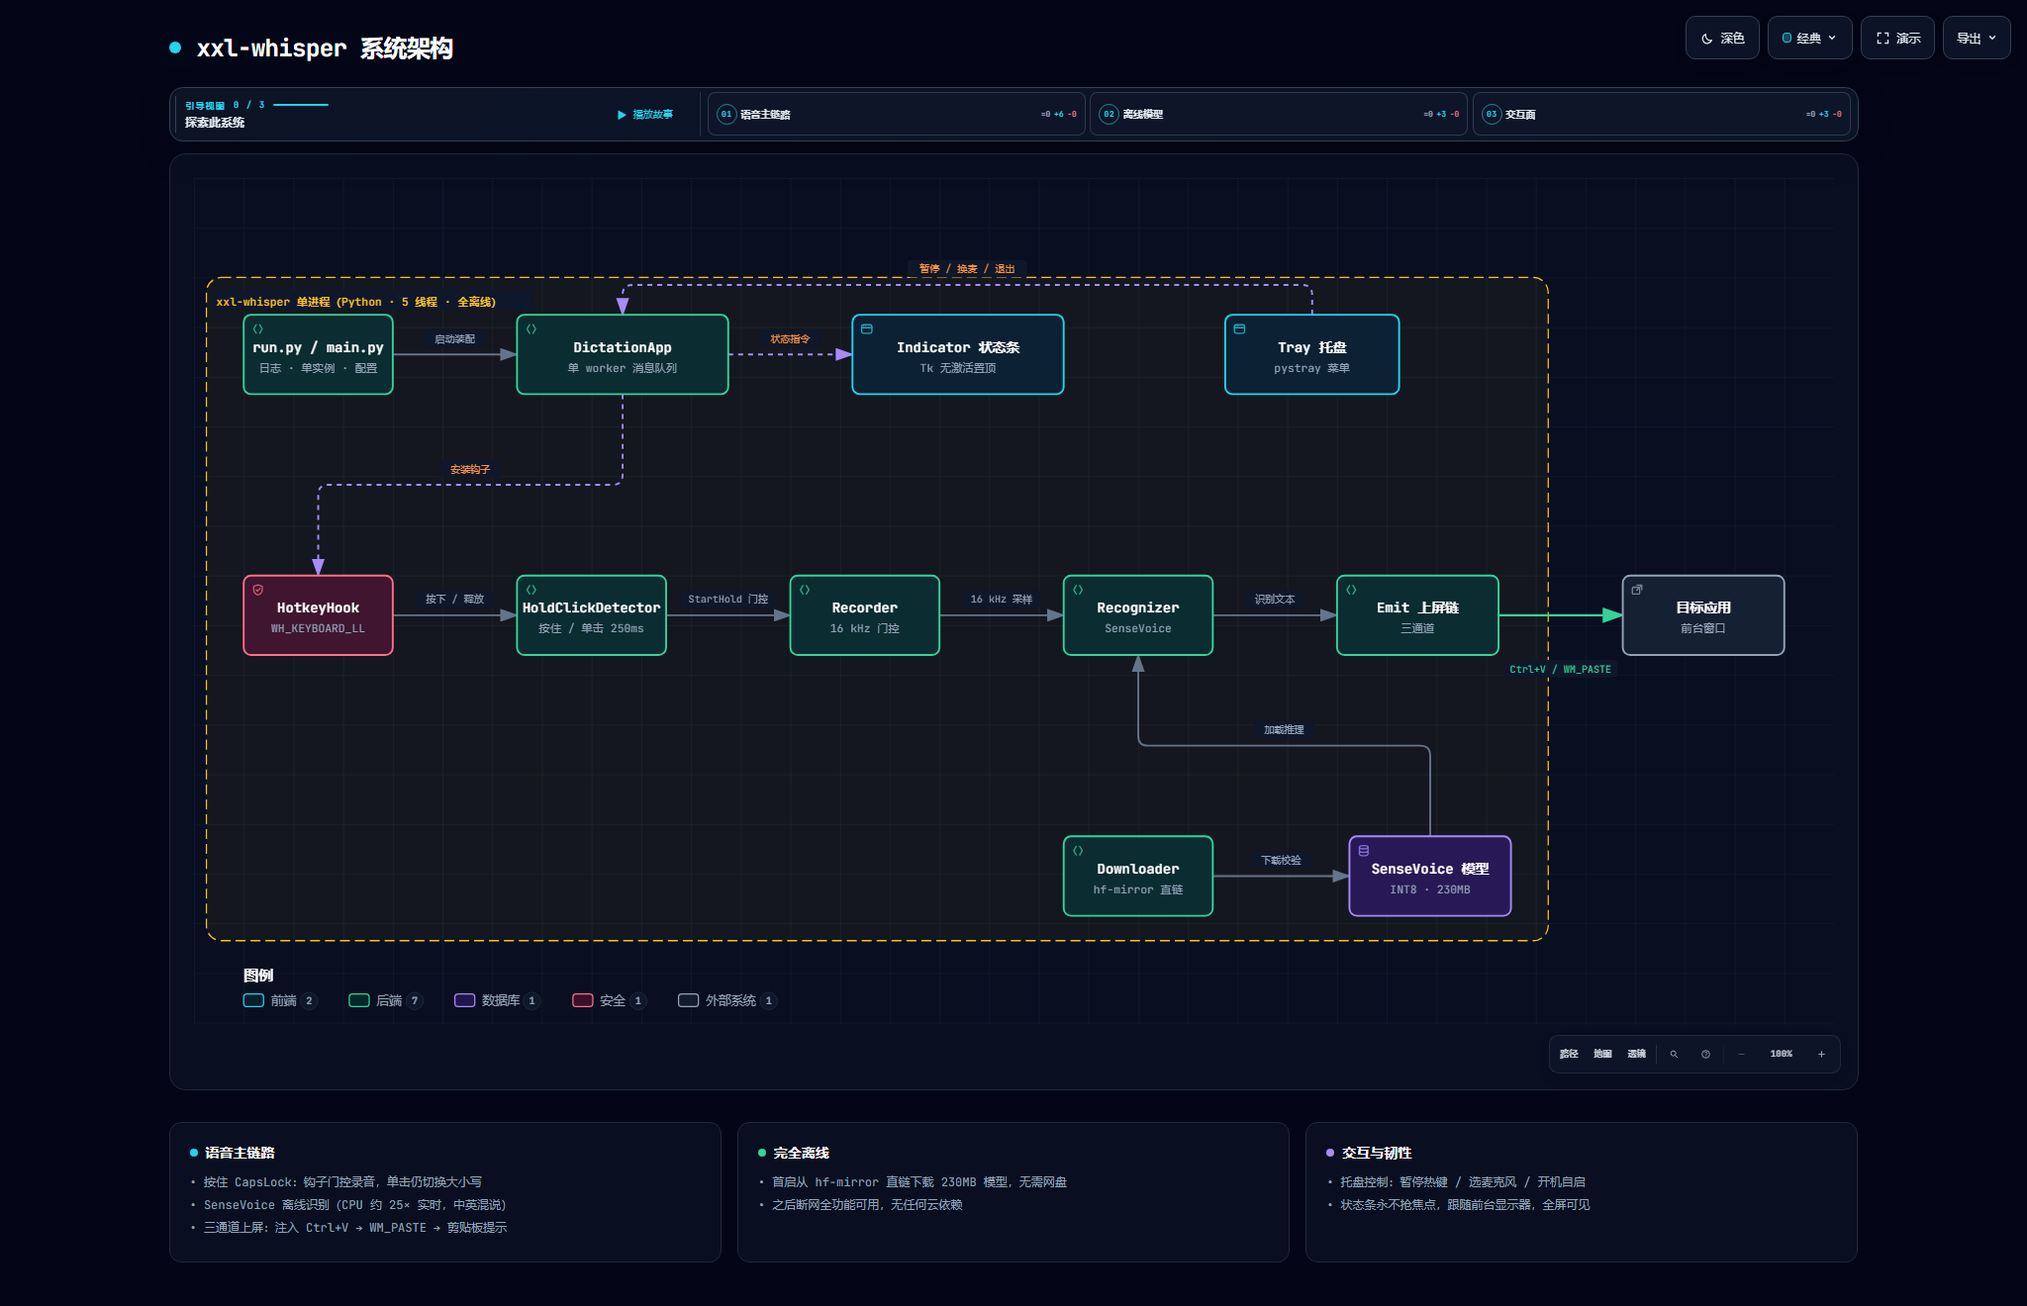
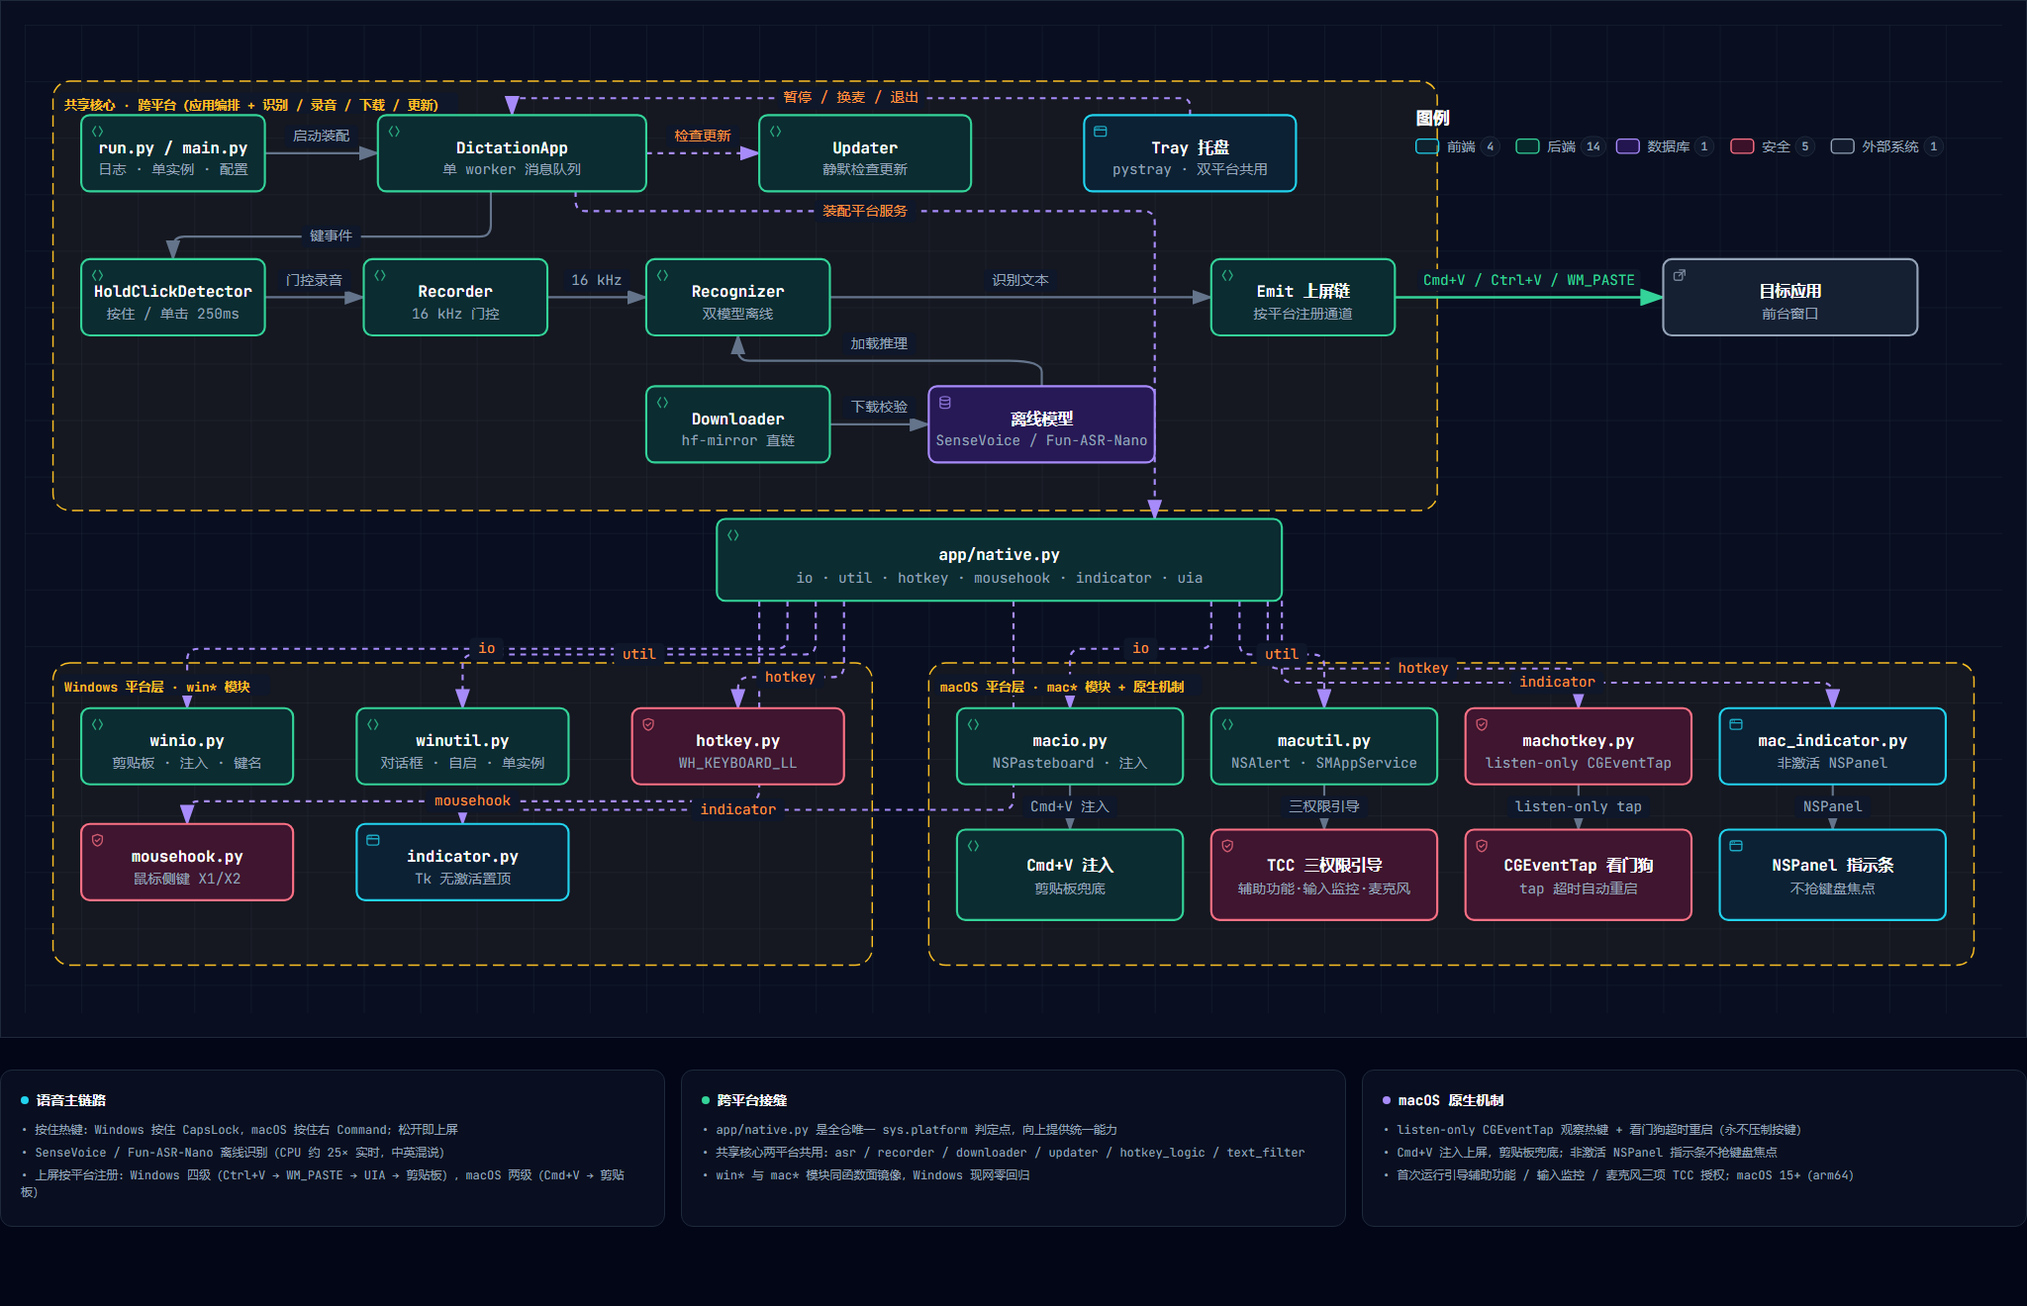
docs: add Fun-ASR-Nano to the architecture; refresh images and links
- architecture.json/.en.json + architecture.html/.en.html: the model node
  becomes "离线模型 / Offline models" with sublabel "SenseVoice / Fun-ASR-Nano";
  the Recognizer sublabel becomes "双模型离线 / dual-model, offline"; the cyan
  card mentions both models; widen the model node (130 to 160) so the sublabel fits
- README.en.md: architecture links now target architecture.en.html /
  architecture.en.json (they pointed at the Chinese page)
- replace the stale architecture.visual-check.* exports (single-platform, from
  the original commit) with fresh light/dark captures of the current diagram
- regenerate the README architecture images (docs/architecture.png / .en.png)

diff --git a/docs/architecture.html b/docs/architecture.html
@@ -5042,7 +5042,7 @@
         <path data-edge-from="recognizer" data-edge-to="emit" data-edge-label="识别文本" data-edge-key="4" data-edge-id="asr-out" data-composition-points="570,193;840,193" d="M 570 193 L 840 193" class="a-default" stroke-width="1.5" marker-end="url(#arrowhead)"/>
         <path data-edge-from="emit" data-edge-to="target" data-edge-label="Cmd+V / Ctrl+V / WM_PASTE" data-edge-key="6" data-edge-id="deliver" data-composition-points="970,193;1160,193" d="M 970 193 L 1160 193" class="a-emphasis" stroke-width="1.8" marker-end="url(#arrowhead-emphasis)"/>
         <path data-edge-from="downloader" data-edge-to="model" data-edge-label="下载校验" data-edge-key="7" data-edge-id="fetch" data-composition-points="570,283;640,283" d="M 570 283 L 640 283" class="a-default" stroke-width="1.5" marker-end="url(#arrowhead)"/>
-        <path data-edge-from="model" data-edge-to="recognizer" data-edge-label="加载推理" data-edge-key="8" data-edge-id="load-model" data-composition-points="705,256;705,238;505,238;505,220" d="M 705 256 L 705.0 246.0 Q 705 238 697.0 238.0 L 513.0 238.0 Q 505 238 505.0 230.0 L 505 220" class="a-default" stroke-width="1.5" marker-end="url(#arrowhead)"/>
+        <path data-edge-from="model" data-edge-to="recognizer" data-edge-label="加载推理" data-edge-key="8" data-edge-id="load-model" data-composition-points="720,256;720,238;505,238;505,220" d="M 720 256 L 720.0 246.0 Q 720 238 697.0 238.0 L 513.0 238.0 Q 505 238 505.0 230.0 L 505 220" class="a-default" stroke-width="1.5" marker-end="url(#arrowhead)"/>
         <path data-edge-from="orchestrator" data-edge-to="updater" data-edge-label="检查更新" data-edge-key="9" data-edge-id="update-check" data-composition-points="440,91;520,91" d="M 440 91 L 520 91" class="a-dashed" stroke-width="1.5" marker-end="url(#arrowhead-dashed)"/>
         <path data-edge-from="tray" data-edge-to="orchestrator" data-edge-label="暂停 / 换麦 / 退出" data-edge-key="10" data-edge-id="tray-cmd" data-composition-points="825,64;825,52;345,52;345,64" d="M 825 64 L 825.0 58.0 Q 825 52 819.0 52.0 L 351.0 52.0 Q 345 52 345.0 58.0 L 345 64" class="a-dashed" stroke-width="1.5" marker-end="url(#arrowhead-dashed)"/>
         <path data-edge-from="orchestrator" data-edge-to="native" data-edge-label="装配平台服务" data-edge-key="11" data-edge-id="native-assembly" data-composition-points="390,118;390,132;800,132;800,350" d="M 390 118 L 390.0 125.0 Q 390 132 397.0 132.0 L 792.0 132.0 Q 800 132 800.0 140.0 L 800 350" class="a-dashed" stroke-width="1.5" marker-end="url(#arrowhead-dashed)"/>
@@ -5122,15 +5122,15 @@
           <text data-node-label="" data-detail-anchor="" x="305" y="193" class="t-primary" font-size="11" font-weight="600" text-anchor="middle">Recorder</text>
           <text data-detail="context" x="305" y="208" class="t-muted" font-size="10" text-anchor="middle">16 kHz 门控</text>
         </g>
-        <g id="node-recognizer" data-node-id="recognizer" data-node-label="Recognizer" tabindex="0" role="button" aria-label="聚焦Recognizer，SenseVoice 离线, 共享核心 · 跨平台（应用编排 + 识别 / 录音 / 下载 / 更新）" aria-pressed="false" data-node-kind="backend" data-node-sublabel="SenseVoice 离线" data-node-context="共享核心 · 跨平台（应用编排 + 识别 / 录音 / 下载 / 更新）">
-          <title>Recognizer · SenseVoice 离线 · 共享核心 · 跨平台（应用编排 + 识别 / 录音 / 下载 / 更新）</title>
+        <g id="node-recognizer" data-node-id="recognizer" data-node-label="Recognizer" tabindex="0" role="button" aria-label="聚焦Recognizer，双模型离线, 共享核心 · 跨平台（应用编排 + 识别 / 录音 / 下载 / 更新）" aria-pressed="false" data-node-kind="backend" data-node-sublabel="双模型离线" data-node-context="共享核心 · 跨平台（应用编排 + 识别 / 录音 / 下载 / 更新）">
+          <title>Recognizer · 双模型离线 · 共享核心 · 跨平台（应用编排 + 识别 / 录音 / 下载 / 更新）</title>
           <rect x="440" y="166" width="130" height="54" rx="6" class="c-mask"/>
           <rect x="440" y="166" width="130" height="54" rx="6" class="c-backend" stroke-width="1.5"/>
           <g aria-hidden="true" data-semantic-sigil="backend" class="semantic-sigil s-backend" transform="translate(446 172) scale(0.6875)">
             <path d="M6 3 3 8l3 5M10 3l3 5-3 5"/>
           </g>
           <text data-node-label="" data-detail-anchor="" x="505" y="193" class="t-primary" font-size="11" font-weight="600" text-anchor="middle">Recognizer</text>
-          <text data-detail="context" x="505" y="208" class="t-muted" font-size="10" text-anchor="middle">SenseVoice 离线</text>
+          <text data-detail="context" x="505" y="208" class="t-muted" font-size="10" text-anchor="middle">双模型离线</text>
         </g>
         <g id="node-emit" data-node-id="emit" data-node-label="Emit 上屏链" tabindex="0" role="button" aria-label="聚焦Emit 上屏链，按平台注册通道, 共享核心 · 跨平台（应用编排 + 识别 / 录音 / 下载 / 更新）" aria-pressed="false" data-node-kind="backend" data-node-sublabel="按平台注册通道" data-node-context="共享核心 · 跨平台（应用编排 + 识别 / 录音 / 下载 / 更新）">
           <title>Emit 上屏链 · 按平台注册通道 · 共享核心 · 跨平台（应用编排 + 识别 / 录音 / 下载 / 更新）</title>
@@ -5152,15 +5152,15 @@
           <text data-node-label="" data-detail-anchor="" x="505" y="283" class="t-primary" font-size="11" font-weight="600" text-anchor="middle">Downloader</text>
           <text data-detail="context" x="505" y="298" class="t-muted" font-size="10" text-anchor="middle">hf-mirror 直链</text>
         </g>
-        <g id="node-model" data-node-id="model" data-node-label="SenseVoice 模型" tabindex="0" role="button" aria-label="聚焦SenseVoice 模型，INT8 · 230MB, 共享核心 · 跨平台（应用编排 + 识别 / 录音 / 下载 / 更新）" aria-pressed="false" data-node-kind="database" data-node-sublabel="INT8 · 230MB" data-node-context="共享核心 · 跨平台（应用编排 + 识别 / 录音 / 下载 / 更新）">
-          <title>SenseVoice 模型 · INT8 · 230MB · 共享核心 · 跨平台（应用编排 + 识别 / 录音 / 下载 / 更新）</title>
-          <rect x="640" y="256" width="130" height="54" rx="6" class="c-mask"/>
-          <rect x="640" y="256" width="130" height="54" rx="6" class="c-database" stroke-width="1.5"/>
+        <g id="node-model" data-node-id="model" data-node-label="离线模型" tabindex="0" role="button" aria-label="聚焦离线模型，SenseVoice / Fun-ASR-Nano, 共享核心 · 跨平台（应用编排 + 识别 / 录音 / 下载 / 更新）" aria-pressed="false" data-node-kind="database" data-node-sublabel="SenseVoice / Fun-ASR-Nano" data-node-context="共享核心 · 跨平台（应用编排 + 识别 / 录音 / 下载 / 更新）">
+          <title>离线模型 · SenseVoice / Fun-ASR-Nano · 共享核心 · 跨平台（应用编排 + 识别 / 录音 / 下载 / 更新）</title>
+          <rect x="640" y="256" width="160" height="54" rx="6" class="c-mask"/>
+          <rect x="640" y="256" width="160" height="54" rx="6" class="c-database" stroke-width="1.5"/>
           <g aria-hidden="true" data-semantic-sigil="database" class="semantic-sigil s-database" transform="translate(646 262) scale(0.6875)">
             <ellipse cx="8" cy="4" rx="5" ry="2"/><path d="M3 4v8c0 1.1 2.2 2 5 2s5-.9 5-2V4M3 8c0 1.1 2.2 2 5 2s5-.9 5-2"/>
           </g>
-          <text data-node-label="" data-detail-anchor="" x="705" y="283" class="t-primary" font-size="11" font-weight="600" text-anchor="middle">SenseVoice 模型</text>
-          <text data-detail="context" x="705" y="298" class="t-muted" font-size="10" text-anchor="middle">INT8 · 230MB</text>
+          <text data-node-label="" data-detail-anchor="" x="720" y="283" class="t-primary" font-size="11" font-weight="600" text-anchor="middle">离线模型</text>
+          <text data-detail="context" x="720" y="298" class="t-muted" font-size="10" text-anchor="middle">SenseVoice / Fun-ASR-Nano</text>
         </g>
         <g id="node-native" data-node-id="native" data-node-label="app/native.py" tabindex="0" role="button" aria-label="聚焦app/native.py，io · util · hotkey · mousehook · indicator · uia, 架构组件" aria-pressed="false" data-node-kind="backend" data-node-sublabel="io · util · hotkey · mousehook · indicator · uia" data-node-tag="全仓唯一 sys.platform 点" data-node-context="架构组件">
           <title>app/native.py · io · util · hotkey · mousehook · indicator · uia · 架构组件 · 全仓唯一 sys.platform 点</title>
@@ -5643,7 +5643,7 @@
         </div>
         <ul>
           <li>&bull; 按住热键：Windows 按住 CapsLock，macOS 按住右 Command；松开即上屏</li>
-          <li>&bull; SenseVoice 离线识别（CPU 约 25× 实时，中英混说）</li>
+          <li>&bull; SenseVoice / Fun-ASR-Nano 离线识别（CPU 约 25× 实时，中英混说）</li>
           <li>&bull; 上屏按平台注册：Windows 四级（Ctrl+V → WM_PASTE → UIA → 剪贴板），macOS 两级（Cmd+V → 剪贴板）</li>
         </ul>
       </div>

diff --git a/docs/architecture.en.html b/docs/architecture.en.html
@@ -5133,15 +5133,15 @@
         <text data-detail="context" x="305" y="207" class="t-muted" font-size="9" text-anchor="middle">16 kHz gated</text>
         </g>
 
-        <g id="node-recognizer" data-node-id="recognizer" data-node-label="Recognizer" tabindex="0" role="button" aria-label="Focus Recognizer, SenseVoice offline, Shared core · cross-platform (app orchestration + recognition / recording / download / update)" aria-pressed="false" data-node-kind="backend" data-node-sublabel="SenseVoice offline" data-node-context="Shared core · cross-platform (app orchestration + recognition / recording / download / update)">
-          <title>Recognizer · SenseVoice offline · Shared core · cross-platform (app orchestration + recognition / recording / download / update)</title>
+        <g id="node-recognizer" data-node-id="recognizer" data-node-label="Recognizer" tabindex="0" role="button" aria-label="Focus Recognizer, dual-model, offline, Shared core · cross-platform (app orchestration + recognition / recording / download / update)" aria-pressed="false" data-node-kind="backend" data-node-sublabel="dual-model, offline" data-node-context="Shared core · cross-platform (app orchestration + recognition / recording / download / update)">
+          <title>Recognizer · dual-model, offline · Shared core · cross-platform (app orchestration + recognition / recording / download / update)</title>
           <rect x="440" y="166" width="130" height="54" rx="6" class="c-mask"/>
           <rect x="440" y="166" width="130" height="54" rx="6" class="c-backend" stroke-width="1.5"/>
           <g aria-hidden="true" data-semantic-sigil="backend" class="semantic-sigil s-backend" transform="translate(446 172) scale(0.6875)">
             <path d="M6 3 3 8l3 5M10 3l3 5-3 5"/>
           </g>
           <text data-node-label="" data-detail-anchor="" x="505" y="191" class="t-primary" font-size="11" font-weight="600" text-anchor="middle">Recognizer</text>
-        <text data-detail="context" x="505" y="207" class="t-muted" font-size="9" text-anchor="middle">SenseVoice offline</text>
+        <text data-detail="context" x="505" y="207" class="t-muted" font-size="9" text-anchor="middle">dual-model, offline</text>
         </g>
 
         <g id="node-emit" data-node-id="emit" data-node-label="Emit output chain" tabindex="0" role="button" aria-label="Focus Emit output chain, per-platform output channels, Shared core · cross-platform (app orchestration + recognition / recording / download / update)" aria-pressed="false" data-node-kind="backend" data-node-sublabel="per-platform output channels" data-node-context="Shared core · cross-platform (app orchestration + recognition / recording / download / update)">
@@ -5166,16 +5166,16 @@
         <text data-detail="context" x="505" y="297" class="t-muted" font-size="9" text-anchor="middle">hf-mirror direct link</text>
         </g>
 
-        <g id="node-model" data-node-id="model" data-node-label="SenseVoice model" tabindex="0" role="button" aria-label="Focus SenseVoice model, INT8 · 230MB, Shared core · cross-platform (app orchestration + recognition / recording / download / update)" aria-pressed="false" data-node-kind="database" data-node-sublabel="INT8 · 230MB" data-node-context="Shared core · cross-platform (app orchestration + recognition / recording / download / update)">
-          <title>SenseVoice model · INT8 · 230MB · Shared core · cross-platform (app orchestration + recognition / recording / download / update)</title>
-          <rect x="640" y="256" width="130" height="54" rx="6" class="c-mask"/>
-          <rect x="640" y="256" width="130" height="54" rx="6" class="c-database" stroke-width="1.5"/>
+        <g id="node-model" data-node-id="model" data-node-label="Offline models" tabindex="0" role="button" aria-label="Focus Offline models, SenseVoice / Fun-ASR-Nano, Shared core · cross-platform (app orchestration + recognition / recording / download / update)" aria-pressed="false" data-node-kind="database" data-node-sublabel="SenseVoice / Fun-ASR-Nano" data-node-context="Shared core · cross-platform (app orchestration + recognition / recording / download / update)">
+          <title>Offline models · SenseVoice / Fun-ASR-Nano · Shared core · cross-platform (app orchestration + recognition / recording / download / update)</title>
+          <rect x="640" y="256" width="160" height="54" rx="6" class="c-mask"/>
+          <rect x="640" y="256" width="160" height="54" rx="6" class="c-database" stroke-width="1.5"/>
           <g aria-hidden="true" data-semantic-sigil="database" class="semantic-sigil s-database" transform="translate(646 262) scale(0.6875)">
             <ellipse cx="8" cy="4" rx="5" ry="2"/>
             <path d="M3 4v8c0 1.1 2.2 2 5 2s5-.9 5-2V4M3 8c0 1.1 2.2 2 5 2s5-.9 5-2"/>
           </g>
-          <text data-node-label="" data-detail-anchor="" x="705" y="281" class="t-primary" font-size="11" font-weight="600" text-anchor="middle">SenseVoice model</text>
-        <text data-detail="context" x="705" y="297" class="t-muted" font-size="9" text-anchor="middle">INT8 · 230MB</text>
+          <text data-node-label="" data-detail-anchor="" x="720" y="281" class="t-primary" font-size="11" font-weight="600" text-anchor="middle">Offline models</text>
+        <text data-detail="context" x="720" y="297" class="t-muted" font-size="9" text-anchor="middle">SenseVoice / Fun-ASR-Nano</text>
         </g>
 
         <g id="node-native" data-node-id="native" data-node-label="app/native.py" tabindex="0" role="button" aria-label="Focus app/native.py, io · util · hotkey · mousehook · indicator · uia, Architecture component" aria-pressed="false" data-node-kind="backend" data-node-sublabel="io · util · hotkey · mousehook · indicator · uia" data-node-tag="The repo&#39;s only sys.platform point" data-node-context="Architecture component">
@@ -5690,7 +5690,7 @@
         </div>
         <ul>
           <li>&bull; Hold the hotkey: CapsLock on Windows, Right Command on macOS; release and text lands on screen</li>
-          <li>&bull; SenseVoice offline recognition (~25× real time on CPU, mixed Chinese/English speech)</li>
+          <li>&bull; SenseVoice / Fun-ASR-Nano offline recognition (~25× real time on CPU, mixed Chinese/English speech)</li>
           <li>&bull; Output registered per platform: four levels on Windows (Ctrl+V → WM_PASTE → UIA → clipboard), two on macOS (Cmd+V → clipboard)</li>
         </ul>
       </div>

diff --git a/README.en.md b/README.en.md
@@ -8,7 +8,7 @@
 
 A dual-platform (Windows/macOS) offline voice dictation tool: hold the hotkey (CapsLock on Windows / Right Command on macOS), speak, release and the text is inserted at the cursor. It runs fully local with no network, and handles mixed Chinese–English speech.
 
-[![xxl-whisper architecture](docs/architecture.en.png)](https://xianglun918.github.io/xxl-whisper/architecture.html)
+[![xxl-whisper architecture](docs/architecture.en.png)](https://xianglun918.github.io/xxl-whisper/architecture.en.html)
 
 ## Quick start
 
@@ -31,7 +31,7 @@ A dual-platform (Windows/macOS) offline voice dictation tool: hold the hotkey (C
 |---|---|
 | 🌐 Website | https://xianglun918.github.io/xxl-whisper/ |
 | 📖 Usage & Distribution Guide | [docs/使用与分发说明.en.md](docs/使用与分发说明.en.md) — install, FAQ, config, models / proxy / manual download, known limits, macOS details, maintainer release |
-| 🗺 Interactive architecture | [online](https://xianglun918.github.io/xxl-whisper/architecture.html) · [JSON source](docs/architecture.json) |
+| 🗺 Interactive architecture | [online](https://xianglun918.github.io/xxl-whisper/architecture.en.html) · [JSON source](docs/architecture.en.json) |
 
 ## Development
 
